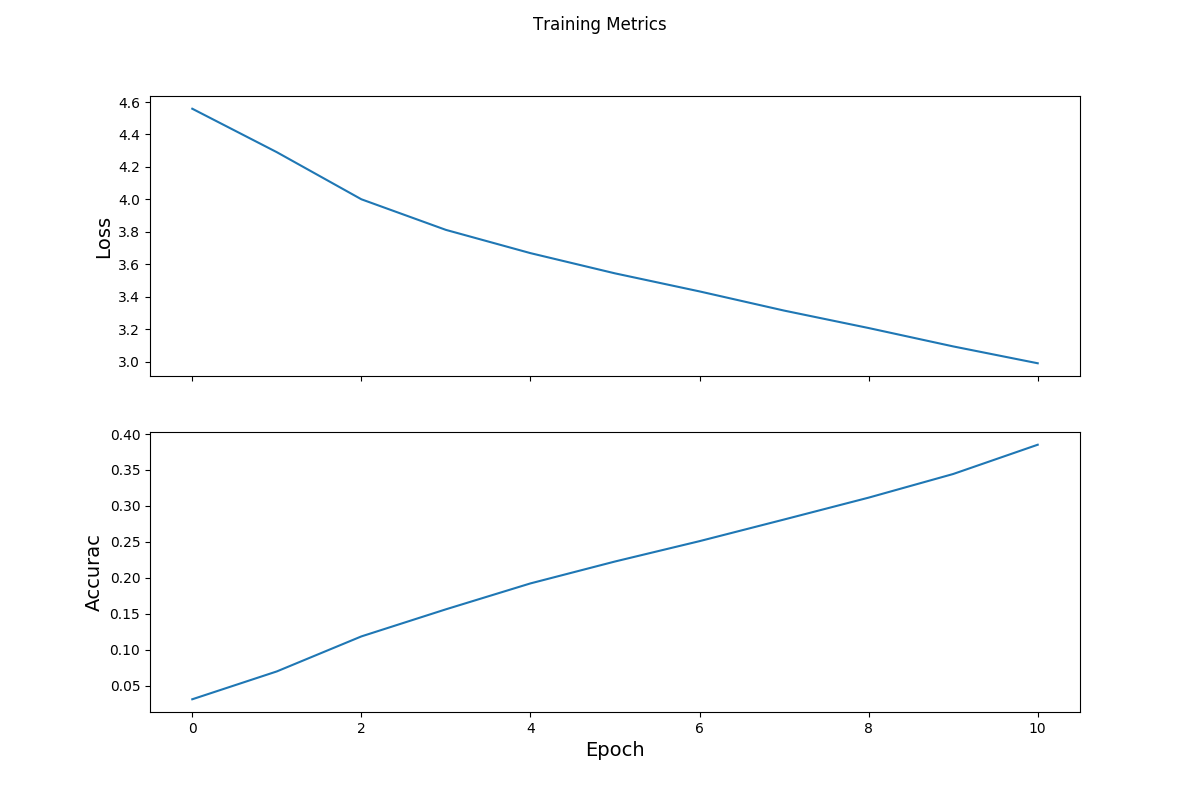
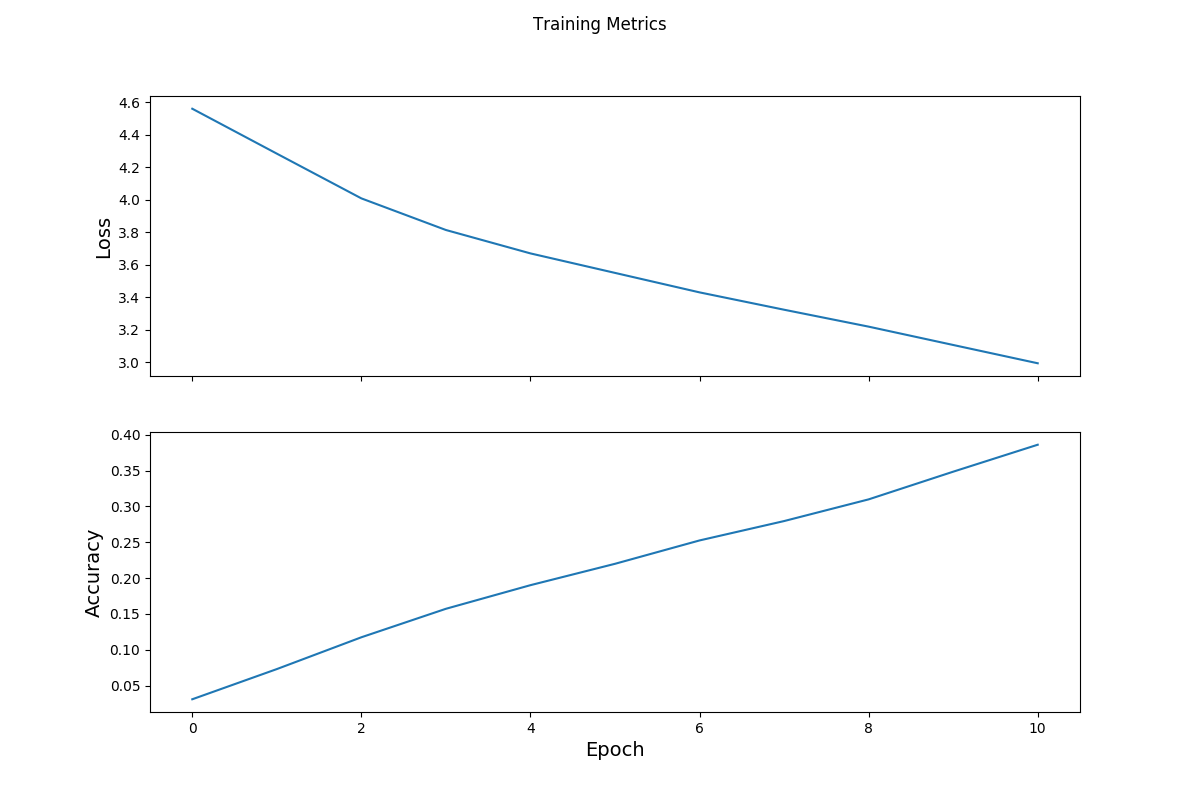
Testing loop added, with plotting fun.

diff --git a/model.py b/model.py
@@ -183,7 +183,7 @@ class Block(Model):
 
 if __name__ =='__main__':
 
-	''' limit GPUs visibility '''
+	''' GPU(s) '''
 	gpus = tf.config.experimental.list_physical_devices('GPU')
 	GPU_N = 4
 	if gpus:
@@ -199,7 +199,7 @@ if __name__ =='__main__':
 	tf.random.set_seed(420)
 
 	'''
-	loss, gradients, optimizer.
+	loss and gradient function.
 	'''
 	# loss_object = tf.losses.SparseCategoricalCrossentropy()
 
@@ -225,20 +225,18 @@ if __name__ =='__main__':
 		return loss_value, tape.gradient(loss_value, model.trainable_variables)
 
 
-	''' dataset '''
+	''' dataset and dataset iterator'''
 	cifar100 = tf.keras.datasets.cifar100
 	(x_train, y_train), (x_test, y_test) = cifar100.load_data(label_mode='fine')
 	
 	# preprocess
 	x_train = (x_train.reshape(-1, 32, 32, 3) / 255).astype(np.float32)
-	x_test= (x_test.reshape(-1, 32, 32, 3) / 255).astype(np.float32)
+	x_test = (x_test.reshape(-1, 32, 32, 3) / 255).astype(np.float32)
 	
 	# create tf.data.Dataset
 	train_set = tf.data.Dataset.from_tensor_slices((x_train, y_train))
 	test_set = tf.data.Dataset.from_tensor_slices((x_test, y_test))
 
-
-	'''iterator'''
 	# now train_set and test_set are Dataset objects.
 	# we return the dataset iterator by calling the
 	# __iter__() method
@@ -257,8 +255,7 @@ if __name__ =='__main__':
 	model = ResNet((32, 32, 3), 100, mycon)
 	model.build(input_shape=(100, 32, 32, 3)) # place correct shape from imagenet
 
-	import ipdb; ipdb.set_trace()
-	
+	''' initialize '''
 	loss_object = tf.losses.SparseCategoricalCrossentropy()
 	optimizer = tf.keras.optimizers.SGD(lr=0.1)
 
@@ -269,6 +266,7 @@ if __name__ =='__main__':
 	num_epochs = 500
 	
 	
+	''' train '''
 
 	for epoch in range(num_epochs):
 	
@@ -282,7 +280,8 @@ if __name__ =='__main__':
 			loss_value, grads = grad(model, img_btch, lab_btch)
 			optimizer.apply_gradients(zip(grads, model.trainable_variables))
 			epoch_loss_avg(loss_value)
-			epoch_accuracy(lab_btch, model(img_btch)) # this needs to be a batch version of it
+			epoch_accuracy(lab_btch, model(img_btch))
+
 			if epoch < 1:
 				print("Epoch {:03d}: Batch: {:03d} Loss: {:.3%}, Accuracy: {:.3%}".format(epoch, k,  epoch_loss_avg.result(), epoch_accuracy.result()))
 			k+=1
@@ -293,86 +292,52 @@ if __name__ =='__main__':
 		train_accuracy_results.append(epoch_accuracy.result())
 		
 		if epoch % 10 == 0:
-			save_plot(train_loss_results, train_accuracy_results, epoch)
+			fname = './imgs/Accuracy_Loss_' + str(epoch) + '.png'
+			save_plot(train_loss_results, train_accuracy_results, fname)
 
 		if epoch == 10:
 			optimizer = tf.keras.optimizers.SGD(lr=0.01)
 		
 		if epoch == 100:
 			optimizer = tf.keras.optimizers.SGD(lr=0.001)
-
-
-		# if epoch % 50 == 0:
 	
-#	import ipdb; ipdb.set_trace()
+	
+
+	''' test '''
+	# initialize 1) loss object, 2) overall metrics, 3) per batch metric lists. 
+	loss_object = tf.losses.SparseCategoricalCrossentropy()
+
+	test_loss_avg = tf.keras.metrics.Mean()
+	test_accuracy = tf.keras.metrics.SparseCategoricalAccuracy()
+
+	pbtch_loss_results = []
+	pbtch_accuracy_results = []
+	k = 0 # batch counter
+	
+	for batch in b_test_set:
+
+		btch_accuracy = tf.keras.metrics.SparseCategoricalAccuracy()
+		
+		# compute loss
+		img_btch, lab_btch = batch
+		loss_value = loss(model, img_btch, lab_btch)
+		
+		# compute metrics per batch.
+		pbtch_loss_results.append(loss_value)
+
+		btch_accuracy(lab_btch, model(img_btch))
+		pbtch_accuracy_results.append(btch_accuracy.result())
+
+		# and whole test set. 
+		test_accuracy(lab_btch, model(img_btch))
+		test_loss_avg(loss_value)
 
 
+		print("Batch: {:03d} Loss: {:.3%}, Accuracy: {:.3%}".format(k,  loss_value, btch_accuracy.result()))
+		k+=1
 
+	save_plot(pbtch_loss_results, pbtch_accuracy_results, './imgs/TEST.png')
+	print("Overall performance:")
+	print("Loss: {:.3%}, Accuracy: {:.3%}".format(epoch, epoch_loss_avg.result(), epoch_accuracy.result()))
 
-
-
-
-
-
-
-
-
-# 	def BatchNorm(BatchNormalization):
-# 	  """Extends the Keras BatchNormalization class to allow a central place
-# 		to make changes if needed.
-# 		
-# 		Batch normalization has a negative effect on training if batches are small
-# 		so this layer is often frozen (via setting in Config class) and functions
-# 		as linear layer.
-# 		"""
-# 	def call(self, inputs, training=None):
-# 		""" Args:
-# 				- input: input tensor
-# 				- training: 'None' trains; 'False' freezes BatchNorm layer
-# 		"""
-# 		return super(self.__class__, self).call(inputs, training=training)
-# 
-# 
-# def identity_block(input_tensor, kernel_size, filters, stage, block, use_bias=True, train_bn=True):
-# 
-# 	""" 
-# 	No convolutional layer applied. 
-# 	"""
-# 	
-# 	conv_prefix = 'res' + str(stage) + block + '_branch'
-# 	bn_prefix = 'bn' + str(stage) + block + '_branch'
-# 	prefixes = [conv_prefix, bn_prefix]
-# 
-# 	nb_filter1, nb_filter2, nb_filter3 = filters
-# 	
-# 	c_name, bn_name = [prefix + '2a' for prefix in prefixes]
-# 	x = Conv2D(nb_filter1, (1, 1), name=c_name, use_bias=use_bias)(input_tensor)
-# 	x = BatchNorm(name=bn_name)(x, training=train_bn)
-# 	x = Activation('relu')(x)
-# 	
-# 	c_name, bn_name = [prefix + '2b' for prefix in prefixes]
-# 	x = Conv2D(nb_filter2, (1, 1), name=c_name, use_bias=use_bias)(input_tensor)
-# 	x = BatchNorm(name=bn_name)(x, training=train_bn)
-# 	x = Activation('relu')(x)
-# 
-# 	c_name, bn_name = [prefix + '2c' for prefix in prefixes]
-# 	x = Conv2D(nb_filter3, (1, 1), name=c_name, use_bias=use_bias)(x)
-# 	x = BatchNorm(name=bn_name)(x, training=train_bn)
-# 
-# 	x = Add()([x, input_tensor]) # summing input and output, we create the ID block. 
-# 	x = Activaton('relu', name='res' + str(stage) + block + '_out')(x)
-# 	return x
-# 
-# 
-# def resnet_block(input_tensor, kernel_size, filters, stage, block,
-#               strides=(2,2), use_bias=True, train_bn=True):
-# 	
-# 	conv_prefix = 'res' + str(stage) + block + '_branch'
-# 	bn_prefix = 'bn' + str(stage) + block + '_branch'
-# 	prefixes = [conv_prefix, bn_prefix]
-# 
-# 	nb_filter1, nnb_filter2, nb_filter3 = filters
-# 	
-# 	c_name, bn_name = [prefix + '2a' for prefix in prefixes]
-# 	x = Conv2D(nb_filter1, (1, 1), strides=strides, name=c_name, use_bias=
-# 	
+	import ipdb; ipdb.set_trace()

diff --git a/viz.py b/viz.py
@@ -2,18 +2,17 @@ import matplotlib.pyplot as plt
 import numpy as np
 
 
-def save_plot(train_loss_results, train_accuracy_results, epoch):
+def save_plot(loss_results, accuracy_results, fname):
 	fig, axes = plt.subplots(2, sharex=True, figsize=(12, 8))
 	fig.suptitle('Training Metrics')
 	
 	axes[0].set_ylabel("Loss", fontsize=14)
-	axes[0].plot(train_loss_results)
+	axes[0].plot(loss_results)
 	
-	axes[1].set_ylabel("Accurac", fontsize=14)
+	axes[1].set_ylabel("Accuracy", fontsize=14)
 	axes[1].set_xlabel("Epoch", fontsize=14)
-	axes[1].plot(train_accuracy_results)
-	plt.savefig('/home/maccetto/mask-rcnn/imgs/Accuracy_Loss_' + str(epoch) + '.png')
+	axes[1].plot(accuracy_results)
+	plt.savefig(fname)
 	plt.close()
 	print('plot saved')
-	pass
-	
+
